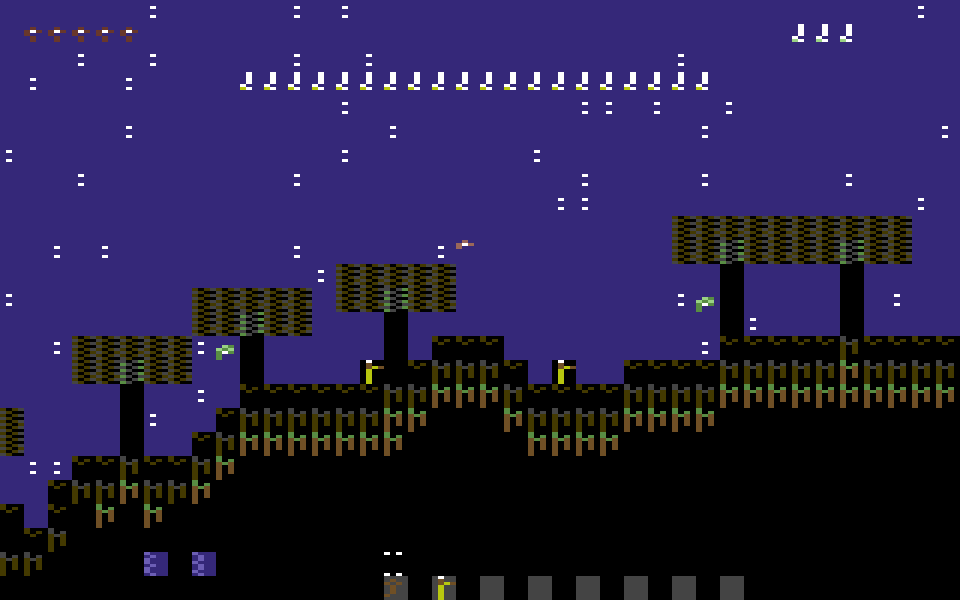
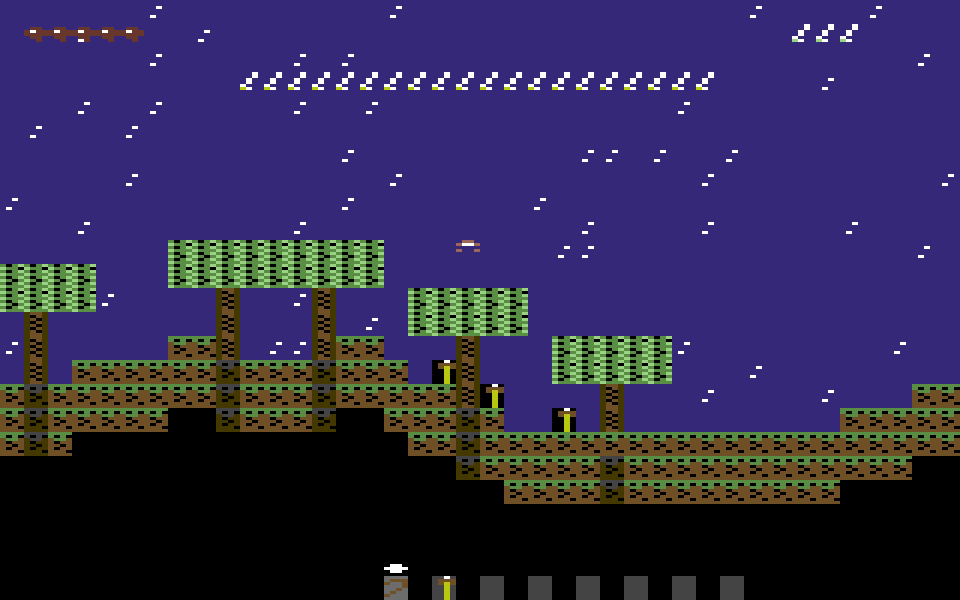
fix lighting/overlay/HUD: SHADE direction, overlay brightness, hotbar selection
Three reported issues, three root causes:

1) 'World mostly black, ground indistinguishable from sky' - the SHADE
   dim table was ordered brightest-first but indexed by light level
   darkest-first: sunlit surface tiles (light 2) were shaded to BLACK
   while deep unlit terrain (light 0) rendered FULL color. Rebuilt the
   table light-level-indexed. Additionally replaced the sky-access
   sun model (only air columns above ground got light; hillside walls,
   tree shade and everything below the surface decayed to 0 within 3
   tiles) with depth-based ambient light: surface rows fully lit,
   fading to black over ~9 rows below the surface; torch BFS light
   still adds cave light on top.

2) 'Overlays leave a background color that stays after the overlay is
   gone' - cellOverlay max-brightened the BASE cell's light, so any
   entity HUD/overlay temporarily re-colored the tile underneath; the
   'stain' vanished when the overlay moved. Overlays are now
   hardware-sprite-like: resolveInk renders overlay pixels at their
   own full brightness and cellOverlay never touches the base layer.

3) 'Cursor can't be seen over the selected hotbar slot' - the white
   corner-mark cursor was dimmed to black by the (broken) cell light
   of the hotbar row. Between fixes 1+2 it would have rendered, but it
   was also too subtle: the selected slot now has a lighter (medium
   gray) background and a white arrow marker above it. Craft menu
[…]

diff --git a/test/render.js b/test/render.js
@@ -1,0 +1,82 @@
+// Regression tests for the lighting / overlay / HUD fixes:
+// 1) SHADE table must be indexed by light level (light 3 = full color,
+//    light 0 = black). It was accidentally brightest-first, which turned
+//    the sunlit surface black and left deep terrain full-color.
+// 2) Overlays (player/mobs/HUD) must render at full brightness and must
+//    NOT brighten the base tile they cover (that left a colored "aura"
+//    that appeared while an entity stood on a tile and vanished when it
+//    moved away).
+// 3) The selected hotbar slot must be clearly visible: lighter slot
+//    background + a white arrow marker above it.
+
+const { MsRunner } = require("../tools/msrun");
+const { renderFrame } = require("../tools/snapshot");
+
+let failures = 0;
+const check = (cond, label) => {
+  console.log(`${cond ? "PASS" : "FAIL"}: ${label}`);
+  if (!cond) failures++;
+};
+
+const r = new MsRunner({});
+r.loadSources();
+r.start();
+const g = r.env.globalObj;
+const call = (name, ...args) => r.fn(name)(...args);
+
+r.env.keyboard.SPACE = 1; r.env.keyboard.press.SPACE = 1;
+r.frame();
+r.env.keyboard.press.SPACE = 0; r.env.keyboard.SPACE = 0;
+for (let i = 0; i < 8; i++) r.frame();
+
+// ---- 1) SHADE direction ----
+check(g.SHADE[5][0] === 0 && g.SHADE[5][3] === 5, "SHADE indexed by light (green: black@0, green@3)");
+check(g.SHADE[1][0] === 0 && g.SHADE[1][3] === 1, "SHADE white: black@0, white@3");
+
+// ---- 2) surface is visible: grass renders full-bright green ----
+const sx = Math.floor(g.player.x);
+const surfaceY = g.surfaceCache[sx];
+check(surfaceY < g.WORLD_H - 1 && g.world[surfaceY][sx] !== 0, `surface row exists (y=${surfaceY})`);
+check(g.lightMap[surfaceY][sx] >= 3, `surface tile fully lit (light=${g.lightMap[surfaceY][sx]})`);
+check(g.lightMap[surfaceY + 8][sx] < g.lightMap[surfaceY][sx], "light fades with depth");
+// resolveInk: a green tile at full light must be green, at light 0 must be black
+const greenFull = call("resolveInk", 3, g.CR.GREEN, -1, 0, -1, 0, 3, 0);
+const greenDark = call("resolveInk", 3, g.CR.GREEN, -1, 0, -1, 0, 0, 0);
+check(greenFull === g.CR.GREEN, `full-light tile keeps its color (${greenFull})`);
+check(greenDark === 0, `zero-light tile renders black (${greenDark})`);
+
+// ---- 3) overlays: full-brightness, no base mutation ----
+// overlay pixel on a dark cell must render at its own color
+const ovColor = call("resolveInk", 3, g.CR.WHITE, -1, g.CR.WHITE, -1, 0, 0, 1);
+check(ovColor === g.CR.WHITE, "overlay white stays white on a dark cell");
+// cellOverlay must not change cellLight
+const li = 10 * 40 + 10;
+g.cellLight[li] = 1;
+call("cellOverlay", 10, 10, g.GL.heartfull, g.CR.RED, -1, null);
+check(g.cellLight[li] === 1, "cellOverlay does not brighten the base cell");
+check(g.ovGlyph[li] === g.GL.heartfull, "cellOverlay writes the overlay layer");
+
+// ---- 4) selected hotbar slot is visible ----
+r.env.screen.newFrame(); r.env.screen.drawCount = 0;
+r.call("update"); r.call("draw");
+const slotX = 16 + g.sel * 2;
+const bgSel = g.cellBg[24 * 40 + slotX];
+const bgOther = g.cellBg[24 * 40 + slotX + 2];
+check(bgSel === g.CR.MDGRY && bgOther === g.CR.DKGRY, "selected slot lighter than others");
+check(g.ovGlyph[23 * 40 + slotX] === g.GL.arrowdn && g.ovMain[23 * 40 + slotX] === g.CR.WHITE,
+  "white arrow marker above selected slot");
+
+// ---- 5) craft menu panel is purple, not sky-blue ----
+call("refreshCraftList");
+g.craftOpen = 1;
+r.env.screen.newFrame(); r.env.screen.drawCount = 0;
+r.call("update"); r.call("draw");
+const menuCell = g.cellBg[6 * 40 + 10];
+check(menuCell === g.CR.PURPLE, `craft menu panel is purple (got ${menuCell})`);
+g.craftOpen = 0;
+
+// ---- 6) rendered pixels: grass region shows green, not black ----
+renderFrame(r.env.screen.frameCalls, 3, "test/snapshots/_render_check.png");
+
+console.log(failures === 0 ? "ALL RENDER TESTS PASSED" : `${failures} FAILURES`);
+process.exit(failures === 0 ? 0 : 1);

diff --git a/README.md b/README.md
@@ -86,6 +86,7 @@ The game is fully verifiable outside the browser with the vendored
 microScript v2 engine (see `vendor/microscript-v2/`):
 
 ```bash
+node test/render.js     # lighting/overlay/HUD regression tests (SHADE direction, overlay brightness, hotbar selection)
 node test/charset.js    # glyph blitting regression tests (solid/mixed/full-width cells)
 node test/loadorder.js  # game must work in ANY source-file load order (microStudio loads files in network-arrival order!)
 node test/gameplay.js   # full gameplay scenario: mine, craft, place, light, die, restart
